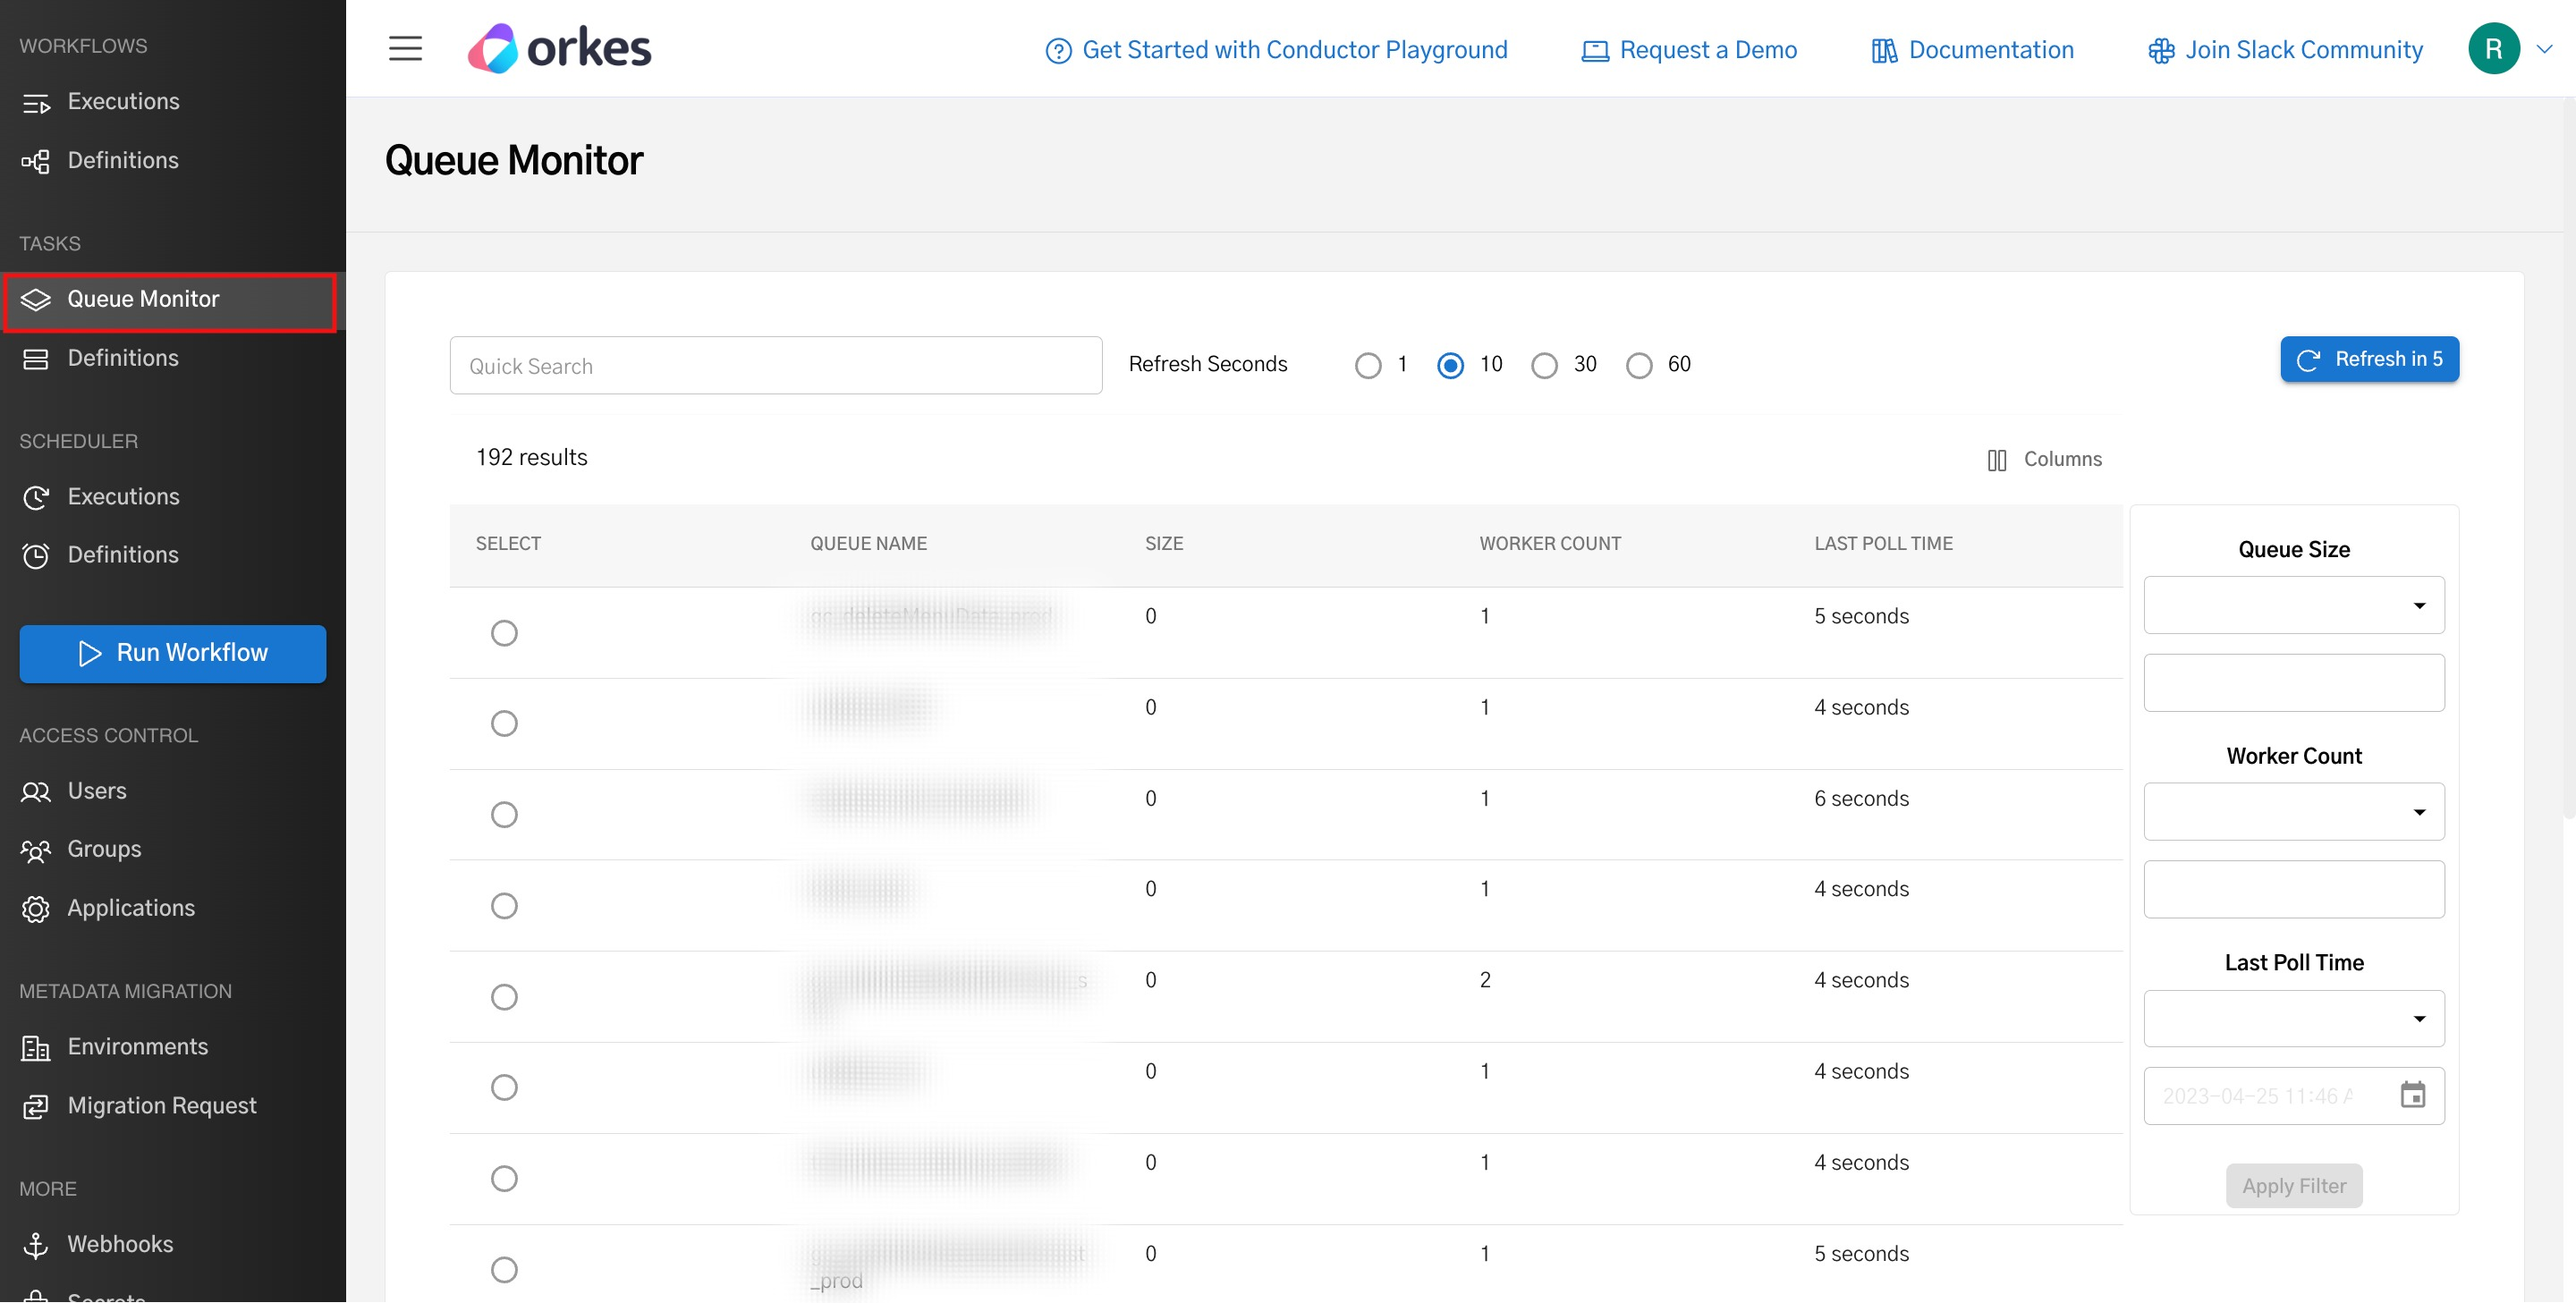
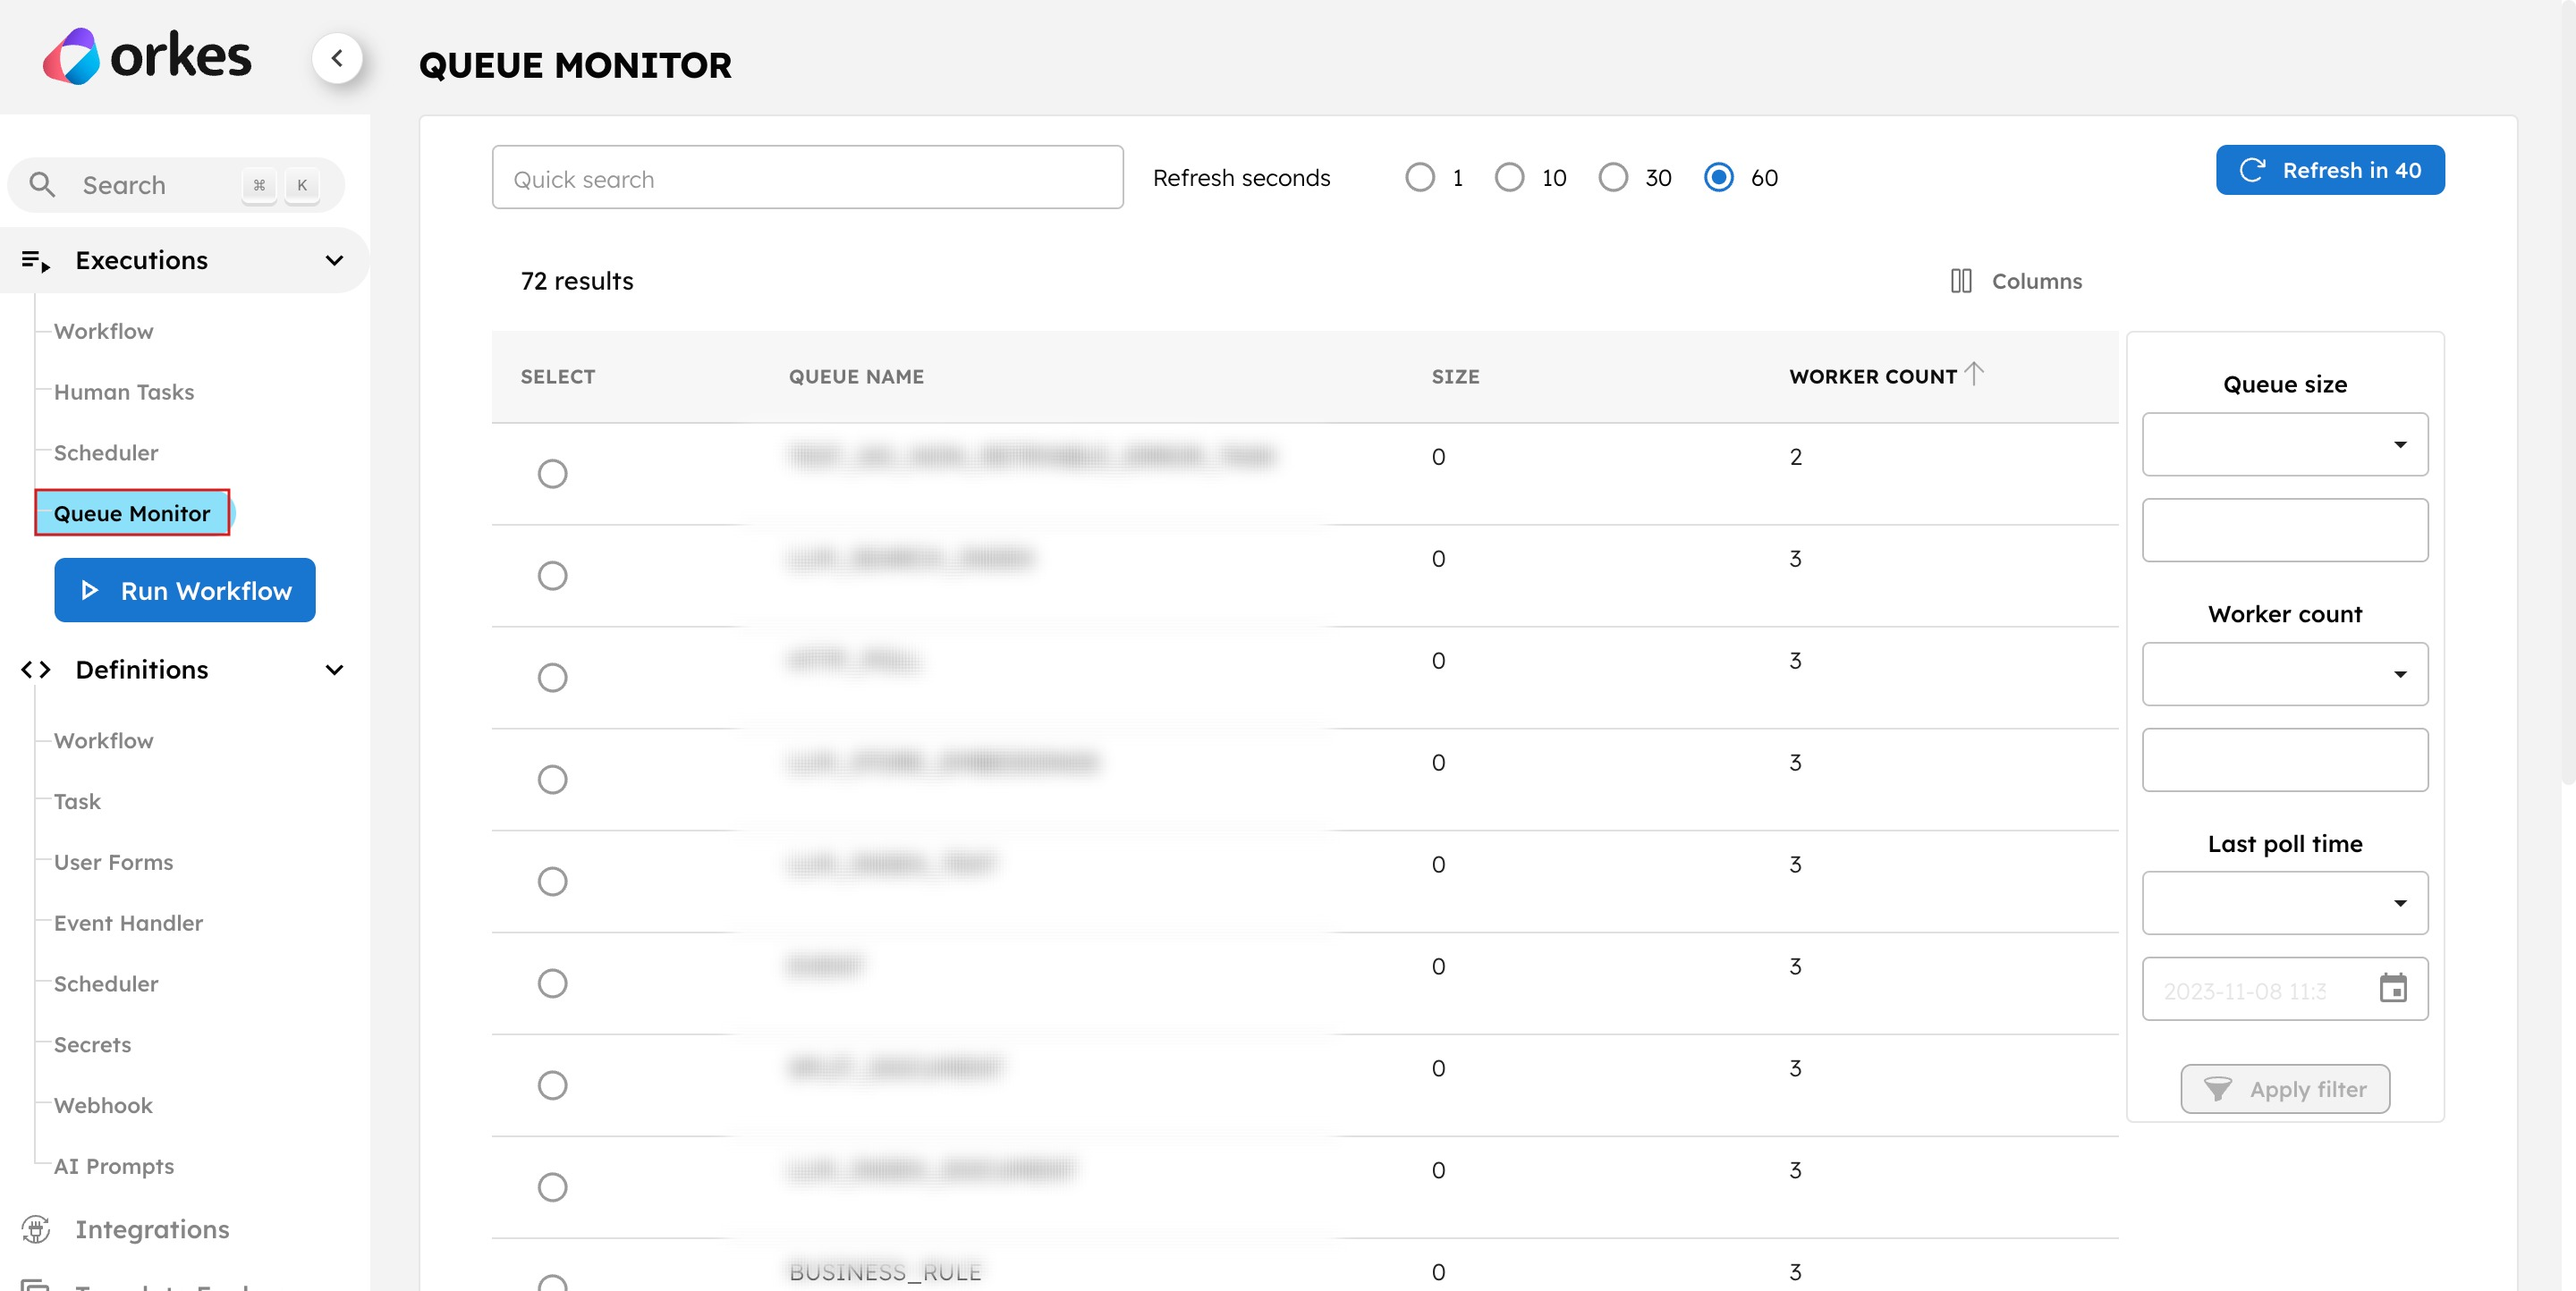
task queue monitor

diff --git a/docs/developer-guides/monitoring-task-queues.md b/docs/developer-guides/monitoring-task-queues.md
@@ -4,7 +4,7 @@ The task queues are the collection of tasks waiting to be executed. It is useful
 
 ## Viewing Task Queues
 
-You can monitor your task queues by navigating to **Tasks > Queue Monitor**.
+You can monitor your task queues by navigating to **Executions > Queue Monitor**.
 
 <p align="center"><img src="/content/img/task-queue-monitor-view.png" alt="Monitoring Task Queues in Conductor" width="100%" height="auto"></img></p>
 
